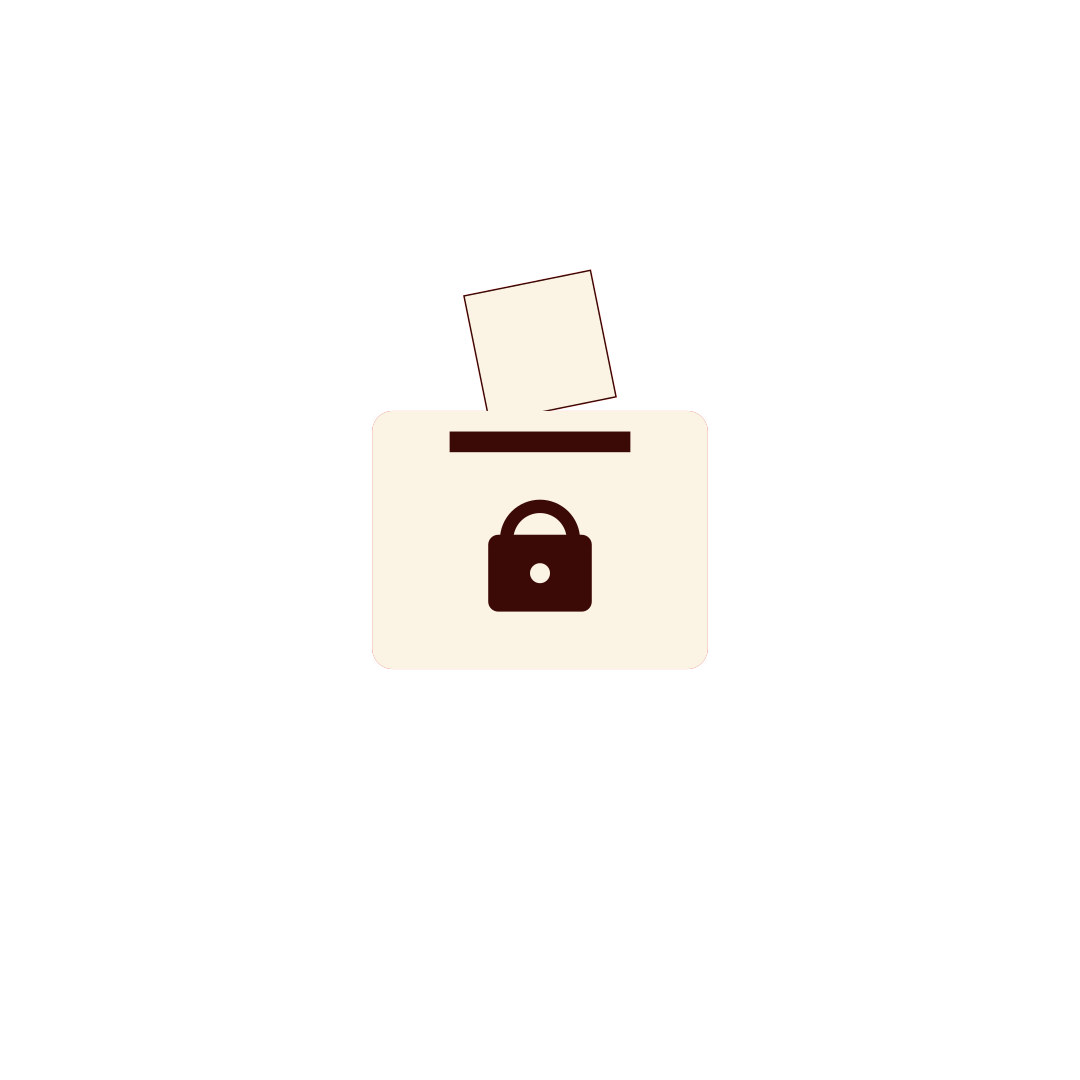
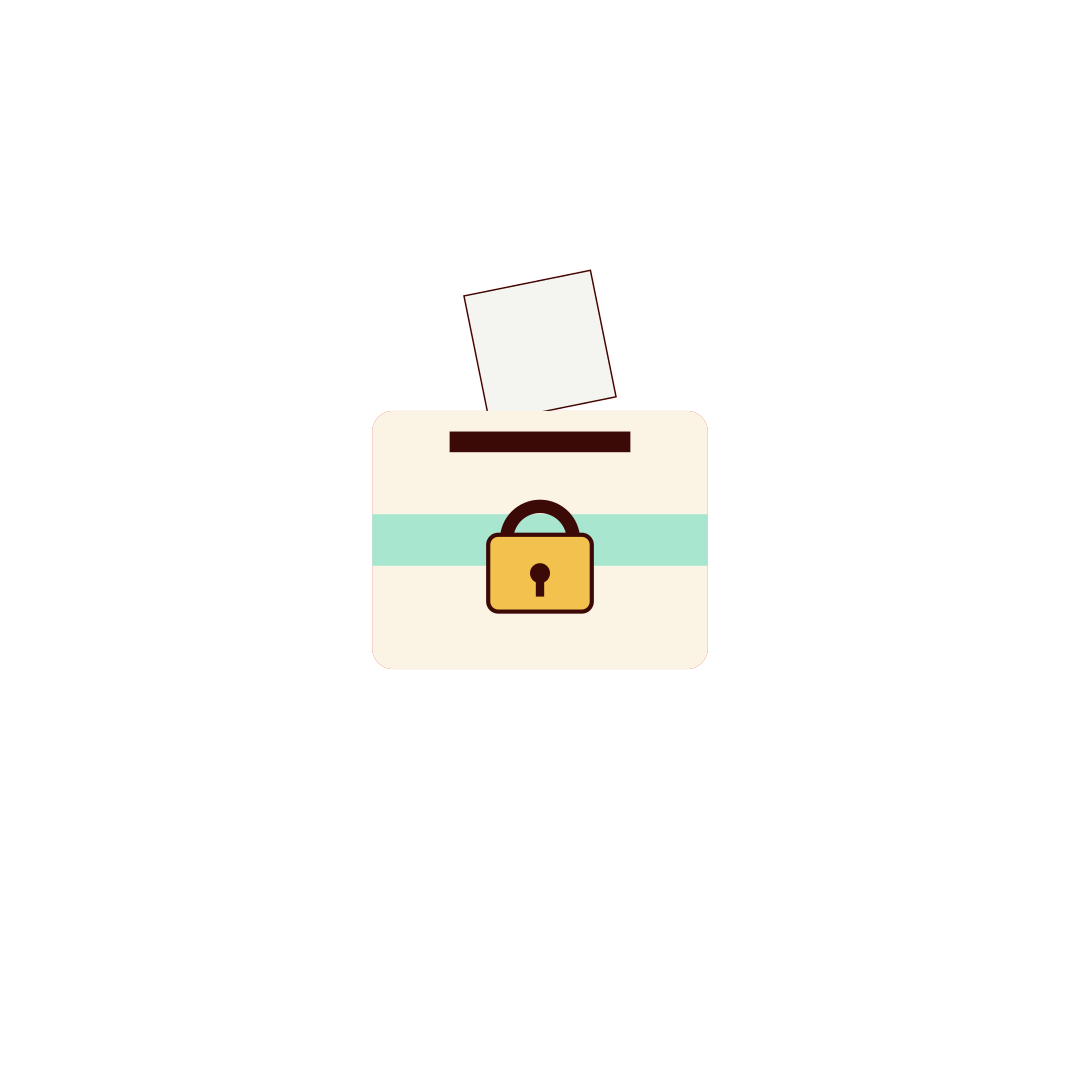
ATF 129 I 232 : kit de publication complété, miniature à jour
Claude-Session: https://claude.ai/code/session_012pUu3ZbXMfxzGWRRSv1ovz

Changed region(s): [[0.3361, 0.4583, 0.6722, 0.5806]]

diff --git a/scripts/arrets/atf-129-i-232-zurich/publication.md b/scripts/arrets/atf-129-i-232-zurich/publication.md
@@ -60,12 +60,16 @@ Votre réponse à la question finale : pourquoi une administration ne peut-elle 
 
 droit suisse, Tribunal fédéral, ATF 129 I 232, naturalisation, Zurich, initiative populaire, démocratie directe, droits fondamentaux, droit d'être entendu, obligation de motiver, interdiction de discrimination, sphère privée, droit constitutionnel, Emmen, loi sur la nationalité
 
-## Réglages
+## Réglages dans YouTube Studio
 
-- Miniature : miniature-zurich-atf-129-i-232.png
-- Sous-titres : zurich-sous-titres.srt (français)
-- Langue : français. Catégorie : Éducation. Pas conçu pour les enfants.
-- Écran de fin : les 15 dernières secondes sont muettes et laissent la place à la vidéo suivante et au bouton d'abonnement.
+- Fichier vidéo : zurich-atf-129-i-232-v5.mp4 (1080p, 8 min 20 s).
+- Miniature : miniature-zurich-atf-129-i-232.png.
+- Sous-titres : zurich-sous-titres.srt (français, « avec minutage »).
+- Langue de la vidéo : français. Catégorie : Éducation. « Non, elle n'est pas conçue pour les enfants. »
+- Écran de fin : à partir de 8:05, sur les 15 dernières secondes, qui sont muettes. Une vidéo (« la plus pertinente pour le spectateur », ou la vidéo sur Emmen) dans le cadre de gauche, le bouton d'abonnement dans le cercle de droite.
+- Fiche (carte) conseillée vers 7:00, quand la vidéo cite Emmen : lien vers la vidéo sur l'ATF 129 I 217.
+- Playlist : les arrêts du Tribunal fédéral, si elle existe.
+- Après la mise en ligne : épingler le commentaire, mettre la fiche PDF sur letudedudroit.ch, puis donner le lien et la date pour la mise à jour de la page du site.
 
 ## À vérifier avant de publier
 
